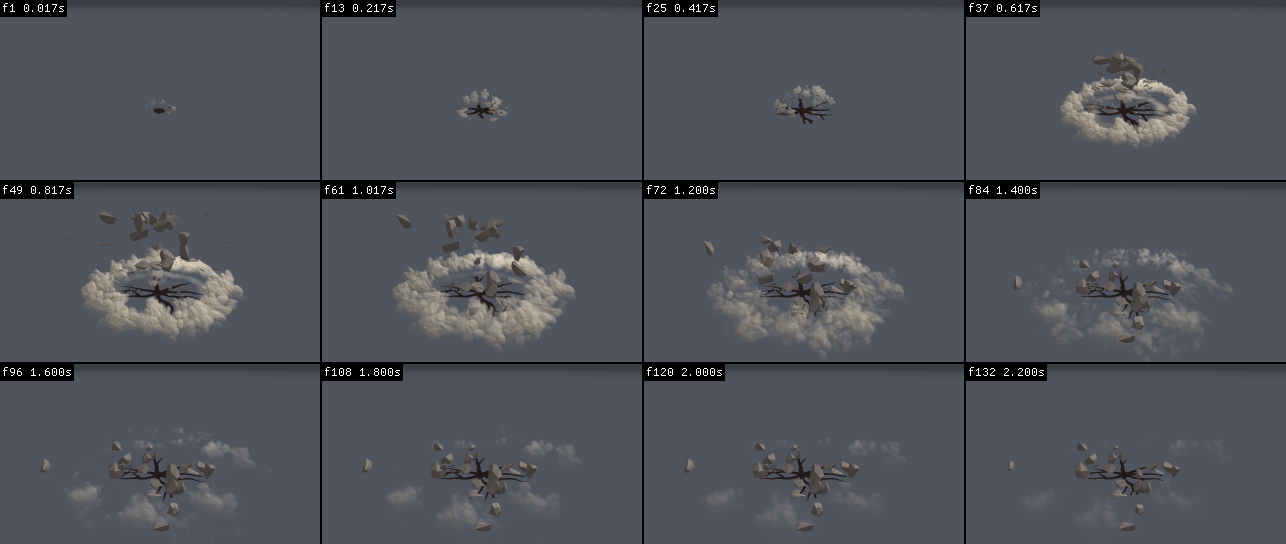
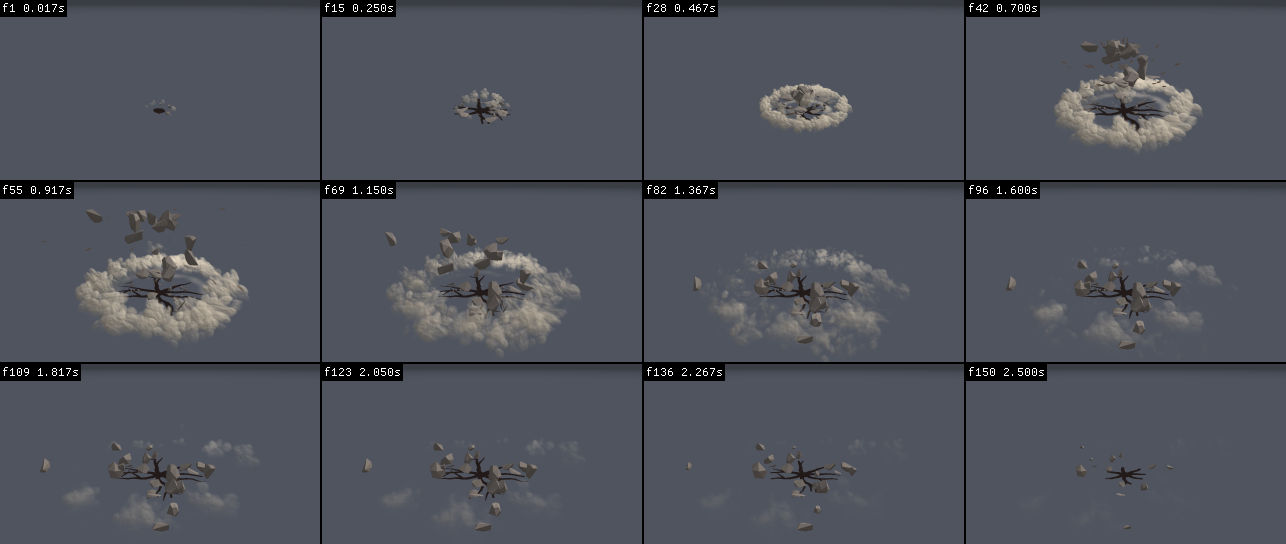
Drop the Fireworks sample; show the Earth Slam throughout
The README's capture, before-and-after, GIF and performance examples now
come from one effect, Study2's Earth Slam, captured through the MCP
server: a floaty version (half gravity, same peak height) against the
shipped heavy one, where only the rocks differ. The quick start ends with
a request that uses all of it. Requirements now separate what the game
targets (.NET 8+) from what the machine needs (.NET 10 SDK for dnx).

diff --git a/README.md b/README.md
@@ -47,60 +47,60 @@ and a stopwatch, through an MCP server and a small NuGet package:
    Commit it, and every agent that reads `.mcp.json` (Claude Code, for example) can use the tools. See
    [MCP server](docs/mcp.md) for VS Code, Cursor and other clients.
 
-Then ask your agent something like *"capture the game and check the explosion's timing"*.
+Then ask your agent something like *"The earth slam feels floaty. Make the rocks land harder, then show
+me a before and after GIF."* The rest of this page is what it works with.
 
 Your `Update` and `Draw` overrides should call `base.Update(gameTime)` and `base.Draw(gameTime)`, as the
-MonoGame templates do. The [Fireworks sample](samples/Fireworks) is a complete game set up this way.
+MonoGame templates do.
 
 ## What your agent sees
 
 ### A capture
 
 The agent calls `capture`. The tool builds the game, runs it and returns a short reading of the run and
-a labeled contact sheet:
+a labeled contact sheet. `gameArgs` go to the game itself, here to pick the effect and camera:
 
 ```json
-{ "seconds": 6, "name": "fireworks", "sheet": { "from": 1, "to": 3, "count": 8 } }
+{ "frames": 150, "gameArgs": ["--show", "earthslam", "--camera", "front", "--studio"], "name": "slam-heavy" }
 ```
 
 ```text
-Captured Fireworks to .agenttools/captures/fireworks
-Sheet .agenttools/captures/fireworks/sheets/f60-f180_c4_n8.png (1286x362), 4 per row: f60 1.000s, f77 1.283s, f94 1.567s, f111 1.850s, f129 2.150s, f146 2.433s, f163 2.717s, f180 3.000s
-360 frames at 60 fps: 6 s game time, 2.86 s wall, 1280x720
-Notes: Esc - exit
-Warm-up: memory stable at f150; performance stable at f277
-Frame CPU ms (after warm-up): p50 0.35, p95 0.53, p99 0.8, max 0.88
+Captured Study2.Game.DesktopGL to .agenttools/captures/slam-heavy
+Sheet .agenttools/captures/slam-heavy/sheets/f1-f150_c4_n12.png (1286x544), 4 per row: f1 0.017s, f15 0.250s, f28 0.467s, f42 0.700s, f55 0.917s, f69 1.150s, f82 1.367s, f96 1.600s, f109 1.817s, f123 2.050s, f136 2.267s, f150 2.500s
+150 frames, fixed 16.6667 ms step (60 fps): 2.5 s game time, 1.59 s wall, 1280x720
+Notes: Esc - exit; show earthslam, camera front, studio
+Warm-up: memory stable at f129; performance not reached (still active: JitCompilation); run longer to reach it
+Frame CPU ms (all frames, includes first-use costs): p50 0.48, p95 0.78, p99 1.2, max 1.75
 Allocations after memory stable: game thread 0 B, other threads 0 B
-Growth after memory stable: too short to judge: 1.5 s after the memory gate, needs 5 s; heap 0, private +4 MB, GPU resources 0 (heap counts uncollected garbage)
-GC: none · JIT on game thread: 20 methods, 1.27 ms
-Render per frame (mean/max): draws 1/1, primitives 498/634, target switches 0/0, sprites 249/317
-Hitches (> 2.33 ms): none
+Growth after memory stable: too short to judge: 0.1 s after the memory gate, needs 5 s; heap 0, private 0, GPU resources 0 (heap counts uncollected garbage)
+GC: none · JIT on game thread: 9 methods, 1 ms
+Render per frame (mean/max): draws 34/72, primitives 791/1122, target switches 13/26
+Hitches (> 2.48 ms): none
 Custom metrics (first → last, min to max):
-  particles: 1 → 249, 1 to 318
+  particles: 14 → 36, 14 to 192
 ```
 
-![A contact sheet of eight fireworks frames, each labeled with its frame number and game time](docs/images/fireworks-sheet.png)
+![Twelve frames of the earth slam, each labeled with its frame number and game time: the ground cracks, a dust ring rolls out, rocks are thrown up and land](docs/images/earth-slam-sheet.png)
 
 The agent reads the sheet as an image, so it can judge what's on screen and how it moves, then zoom in
-with `contact_sheet` (a shorter time range, a crop) without running the game again. Here is a sheet of
-the effect at the top of this page:
-
-![Twelve frames of an earth slam effect: impact, dust ring, rocks thrown up and settling](docs/images/earth-slam-sheet.png)
+with `contact_sheet` (a shorter time range, a crop) without running the game again.
 
 ### Before and after
 
 Capture a baseline with a `name`, make a change, and capture again with `sheet: { against: "<name>" }`.
 Each row shows the same frame from both captures and every pixel that changed, in red. Captures are
-deterministic, so any red is a real difference. Here, bloom is off in A and on in B:
+deterministic, so any red is a real difference. Here A is a floaty version of the slam, with half the
+gravity and a slower launch to the same height, and B is the fix. Only the rocks changed: by 1.25 s,
+B's have landed while A's still hang in the air.
 
-![Three rows: the effect without bloom, with bloom, and the changed pixels in red](docs/images/bloom-comparison.png)
+![Three rows at 0.9, 1.25 and 1.6 seconds: the floaty slam, the heavier one, and the changed pixels in red, all on the rocks](docs/images/earth-slam-comparison.png)
 
 ### A GIF for you
 
 When a choice is about how something feels in motion, the agent can make a GIF and give you its path.
 `against` plays the two versions side by side:
 
-![The same effect without and with bloom, playing side by side](docs/images/bloom-ab.gif)
+![The floaty and heavy earth slams playing side by side](docs/images/earth-slam-ab.gif)
 
 ### Performance
 
@@ -112,14 +112,17 @@ real time, for at least 5 seconds:
 ```
 
 ```text
-480 frames at 60 fps: 8 s game time, 8.4 s wall, 1280x720
-Warm-up: memory stable at f62; performance stable at f193
-Frame CPU ms (after warm-up): p50 0.14, p95 0.17, p99 0.2, max 0.27
-Allocations after memory stable: game thread 0 B, other threads 6 KB
-Growth after memory stable, 7 s: steady: no GPU resources leaked (private bytes are judged from 30 s); heap +8 KB, private +6.3 MB, GPU resources 0 (heap counts uncollected garbage)
-GC: none · JIT on game thread: 20 methods, 1.4 ms
-Render per frame (mean/max): draws 1/1, primitives 492/642, target switches 0/0, sprites 246/321
-Hitches (> 2.13 ms): none
+480 frames, fixed 16.6667 ms step (60 fps): 8 s game time, 8.48 s wall, 1280x720
+Notes: Esc - exit; show earthslam, camera front, studio
+Warm-up: memory stable at f62; performance stable at f129, then disturbed 3 times from f180
+Frame CPU ms (after warm-up): p50 0.29, p95 0.73, p99 1.02, max 1.27
+Allocations after memory stable: game thread 0 B, other threads 0 B
+Growth after memory stable, 7 s: steady: no GPU resources leaked (private bytes are judged from 30 s); heap 0, private -2.3 MB, GPU resources 0 (heap counts uncollected garbage)
+GC: none · JIT on game thread: 10 methods, 1.35 ms
+Render per frame (mean/max): draws 31/42, primitives 695/1128, target switches 13/13
+Hitches (> 2.32 ms): none
+Custom metrics (first → last, min to max):
+  particles: 14 → 46, 6 to 192
 ```
 
 Numbers taken while code is still compiling or memory is still growing describe startup, not the game,
@@ -137,7 +140,7 @@ GPU resources, JIT, the warm-up gates, draw calls and your custom metrics. Backt
 `--agenttools-stats out/live.json` records a whole session and writes it when the game exits. See
 [Live play](docs/live.md).
 
-<!-- TODO: docs/images/hud.png, a screenshot of the Fireworks sample with the HUD on. -->
+<!-- TODO: docs/images/hud.png, a screenshot of a game with the HUD on. -->
 
 ## Telling the agent about your game
 
@@ -169,8 +172,9 @@ Agents get the same guidance from the server's `guide` tool.
 
 ## Requirements
 
-- MonoGame 3.8.5 DesktopGL, .NET 8 or later.
-- The MCP server needs the .NET 10 SDK (for `dotnet dnx`).
+- **Your game:** MonoGame 3.8.5 DesktopGL, targeting .NET 8 or later.
+- **Your machine:** the .NET 10 SDK or later, which runs the MCP server through `dotnet dnx`. It installs
+  beside older SDKs and doesn't change what your game targets.
 - Tested on Windows. CI builds and runs the unit tests on Linux and macOS too, but captures haven't been
   run there yet.
 - Pixels can differ slightly across GPUs and drivers, so comparisons across machines need a tolerance.

diff --git a/docs/design.md b/docs/design.md
@@ -603,7 +603,8 @@ Started as `monogame-agenttools mcp` over stdio, with the workspace as its curre
   content pipeline), seeds its randomness and keeps a fixed particle pool. Its first capture found
   MonoGame's `SpriteBatch` allocating 61 KB the first time a frame drew more than 256 sprites (its batch
   grows on demand); the sample draws its maximum once, invisibly, in `LoadContent`, which is the
-  prewarming the performance guide recommends to games.
+  prewarming the performance guide recommends to games. Removed before 0.1 (2026-11-20): the docs
+  use Study2's Earth Slam instead, and a fuller sample comes once input lets it be played.
 - **PNG decoding is in-house** (8-bit RGB/RGBA, all five filters, no interlace): the server only
   reads frames the library writes. ImageSharp's license isn't plain MIT and SkiaSharp adds native
   binaries for every platform; either is the fallback if more formats are ever needed.

diff --git a/docs/mcp.md b/docs/mcp.md
@@ -114,7 +114,7 @@ With `against`, each row is one moment: the baseline (A), this capture (B), and 
 in red, brighter for larger changes, with the percentage changed. Any changed pixel counts, since the
 same build and arguments draw the same frames.
 
-![Three rows comparing an effect without and with bloom](images/bloom-comparison.png)
+![Three rows comparing a floaty and a heavy earth slam, with the changed pixels on the rocks](images/earth-slam-comparison.png)
 
 ### gif
 
@@ -147,7 +147,8 @@ Lists the executable projects under the workspace that reference `MonoGame.Agent
 a `project` only when there's more than one.
 
 ```text
-samples\Fireworks\Fireworks.csproj
+MyGame\MyGame.csproj
+Tools\LevelViewer\LevelViewer.csproj
 ```
 
 ### guide

diff --git a/docs/performance.md b/docs/performance.md
@@ -63,5 +63,5 @@ whole session, so growth that takes minutes shows up. See [Live play](live.md).
 
 The tools compile their own per-frame code before measuring, so they never show up as a first-use cost.
 Your game can do the same by running its real paths once during loading. For example, `SpriteBatch`
-grows its buffers the first time a frame draws more sprites than before; the Fireworks sample draws its
-maximum once, invisibly, in `LoadContent`.
+grows its buffers the first time a frame draws more sprites than before, so draw your largest frame once,
+invisibly, in `LoadContent`.

diff --git a/docs/package-readme.md b/docs/package-readme.md
@@ -20,6 +20,9 @@ AgentTools.Attach(game, args);
 game.Run();
 ```
 
+Requires MonoGame 3.8.5 DesktopGL and a game targeting .NET 8 or later. The MCP server runs through
+`dotnet dnx`, which needs the .NET 10 SDK or later on your machine.
+
 Build in Debug, then ask your agent to capture the game.
 
 Documentation, examples and images: https://github.com/jnoyola/MonoGame.AgentTools

diff --git a/docs/live.md b/docs/live.md
@@ -9,7 +9,7 @@ it.
 MyGame --agenttools-hud
 ```
 
-<!-- TODO: images/hud.png, a screenshot of the Fireworks sample with the HUD on. -->
+<!-- TODO: images/hud.png, a screenshot of a game with the HUD on. -->
 
 The HUD shows, in the top-right corner:
 
